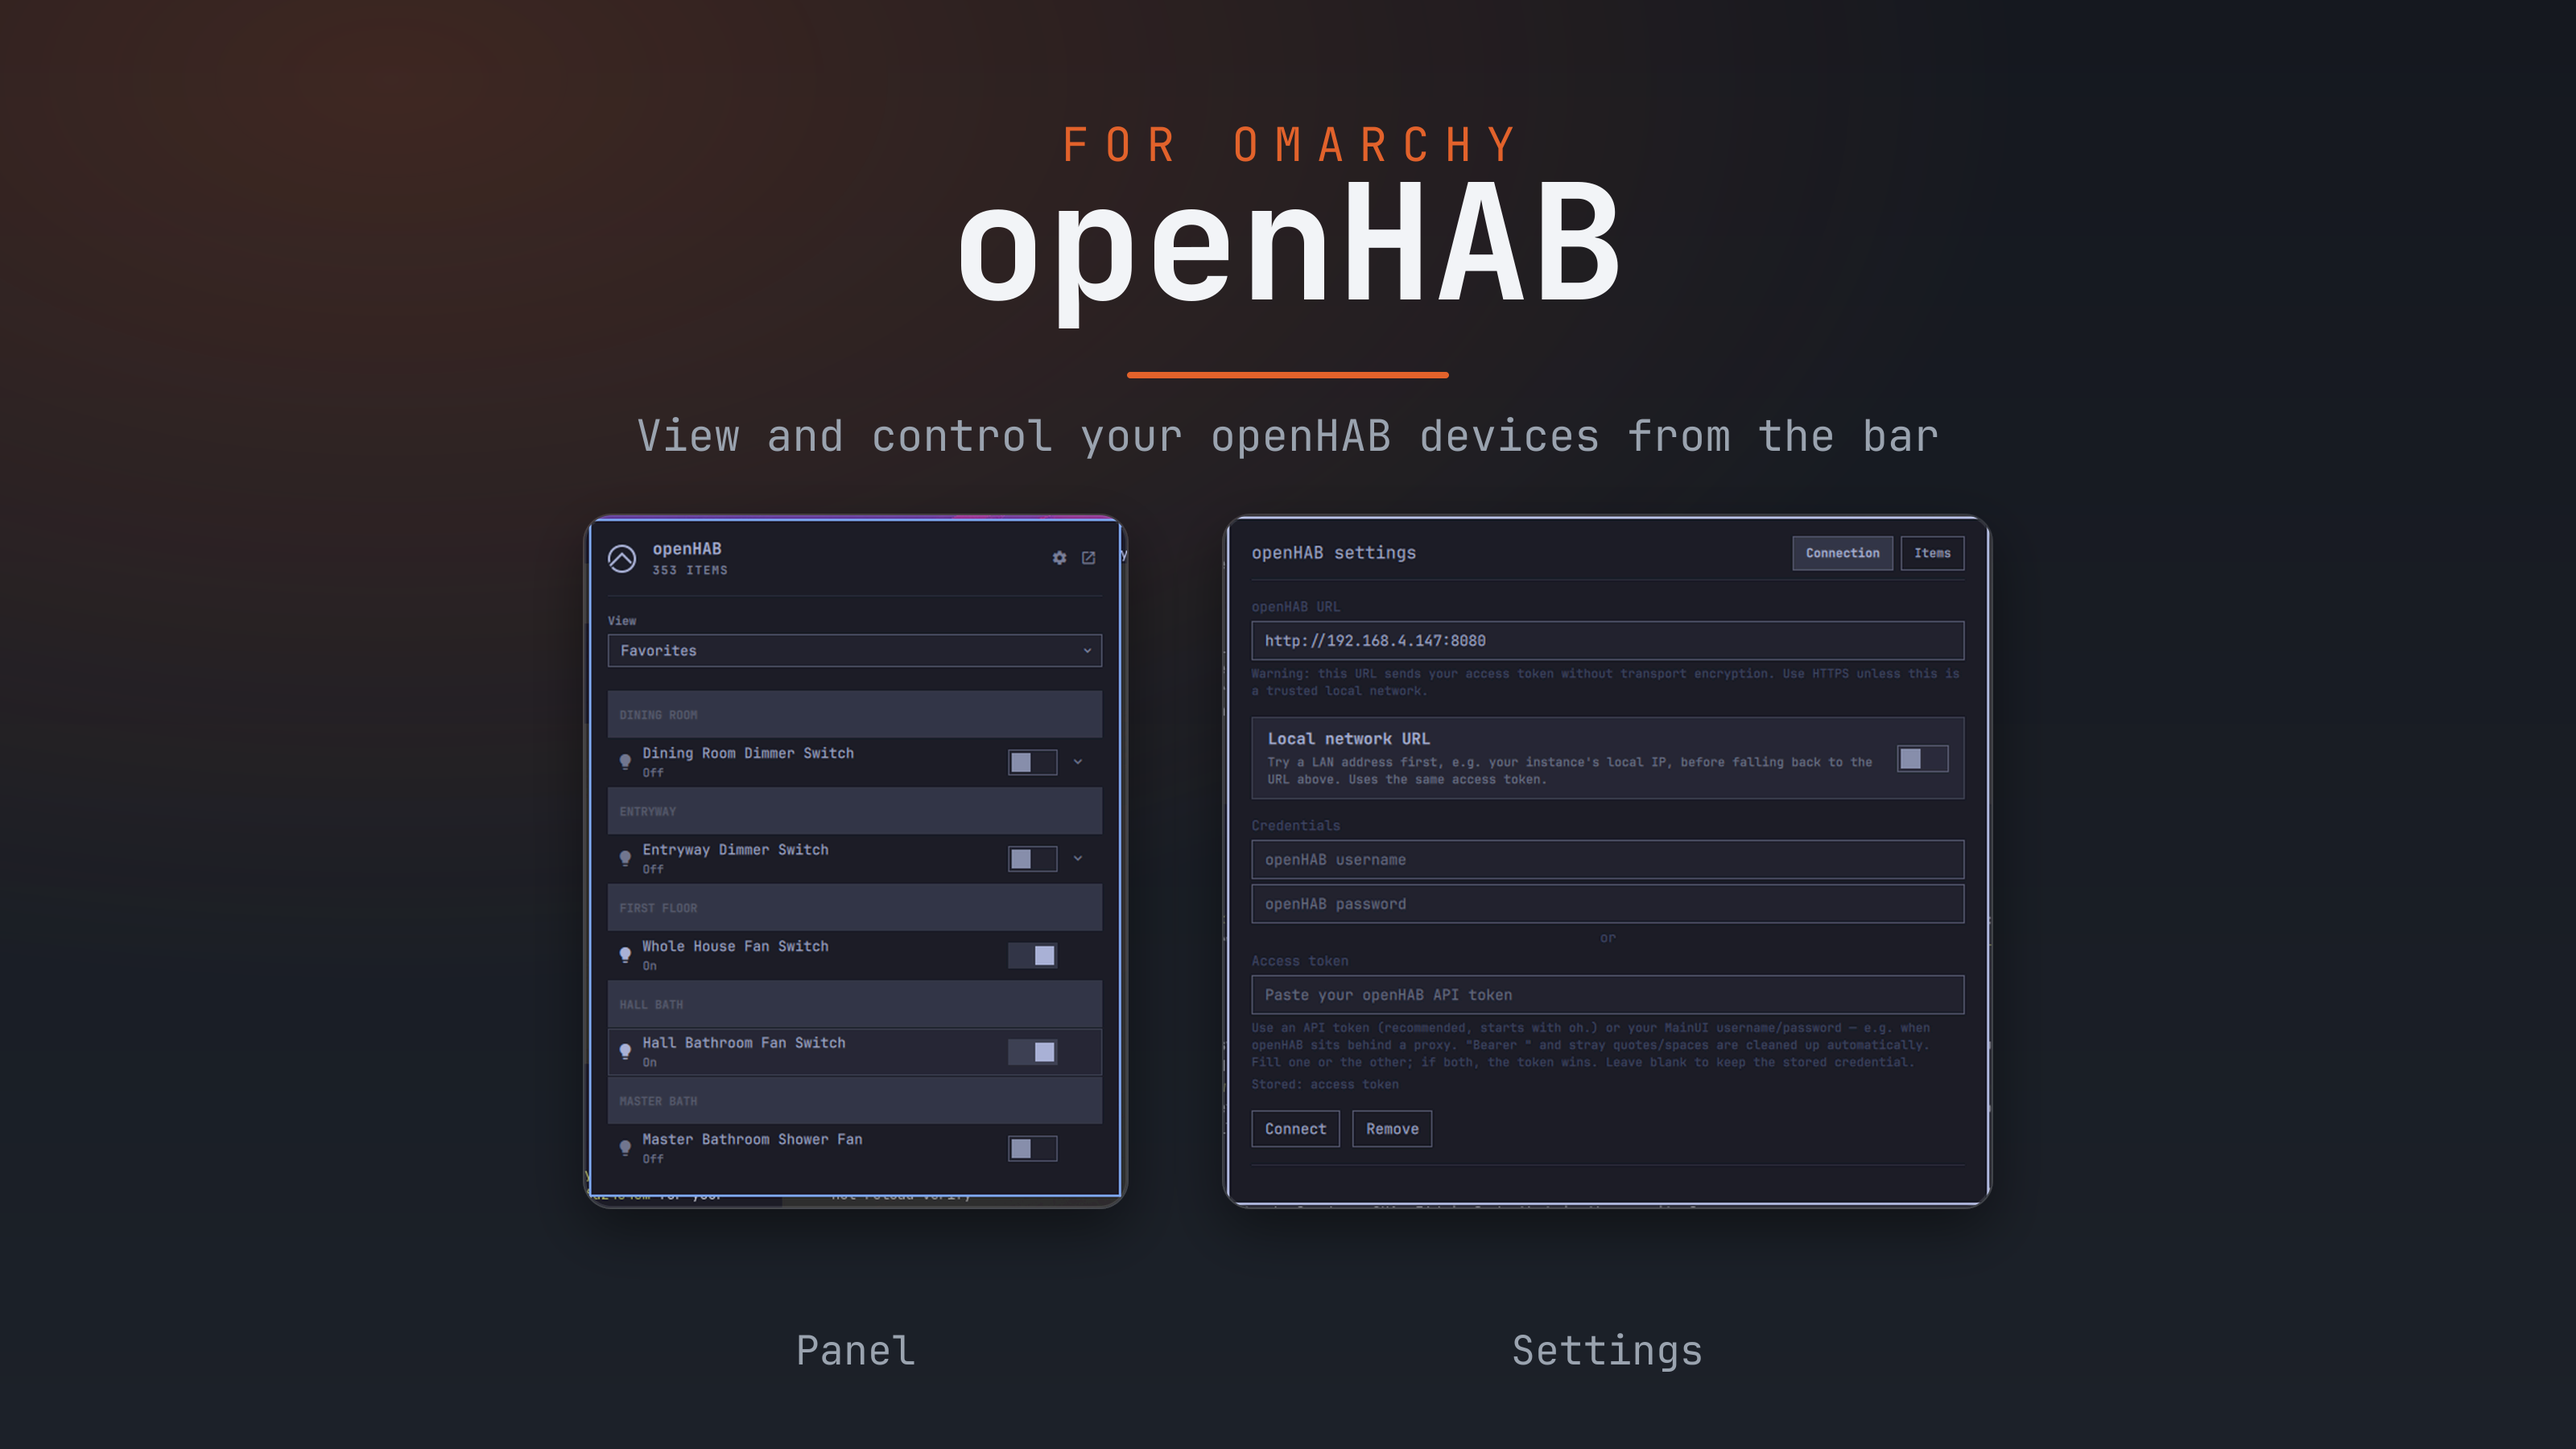
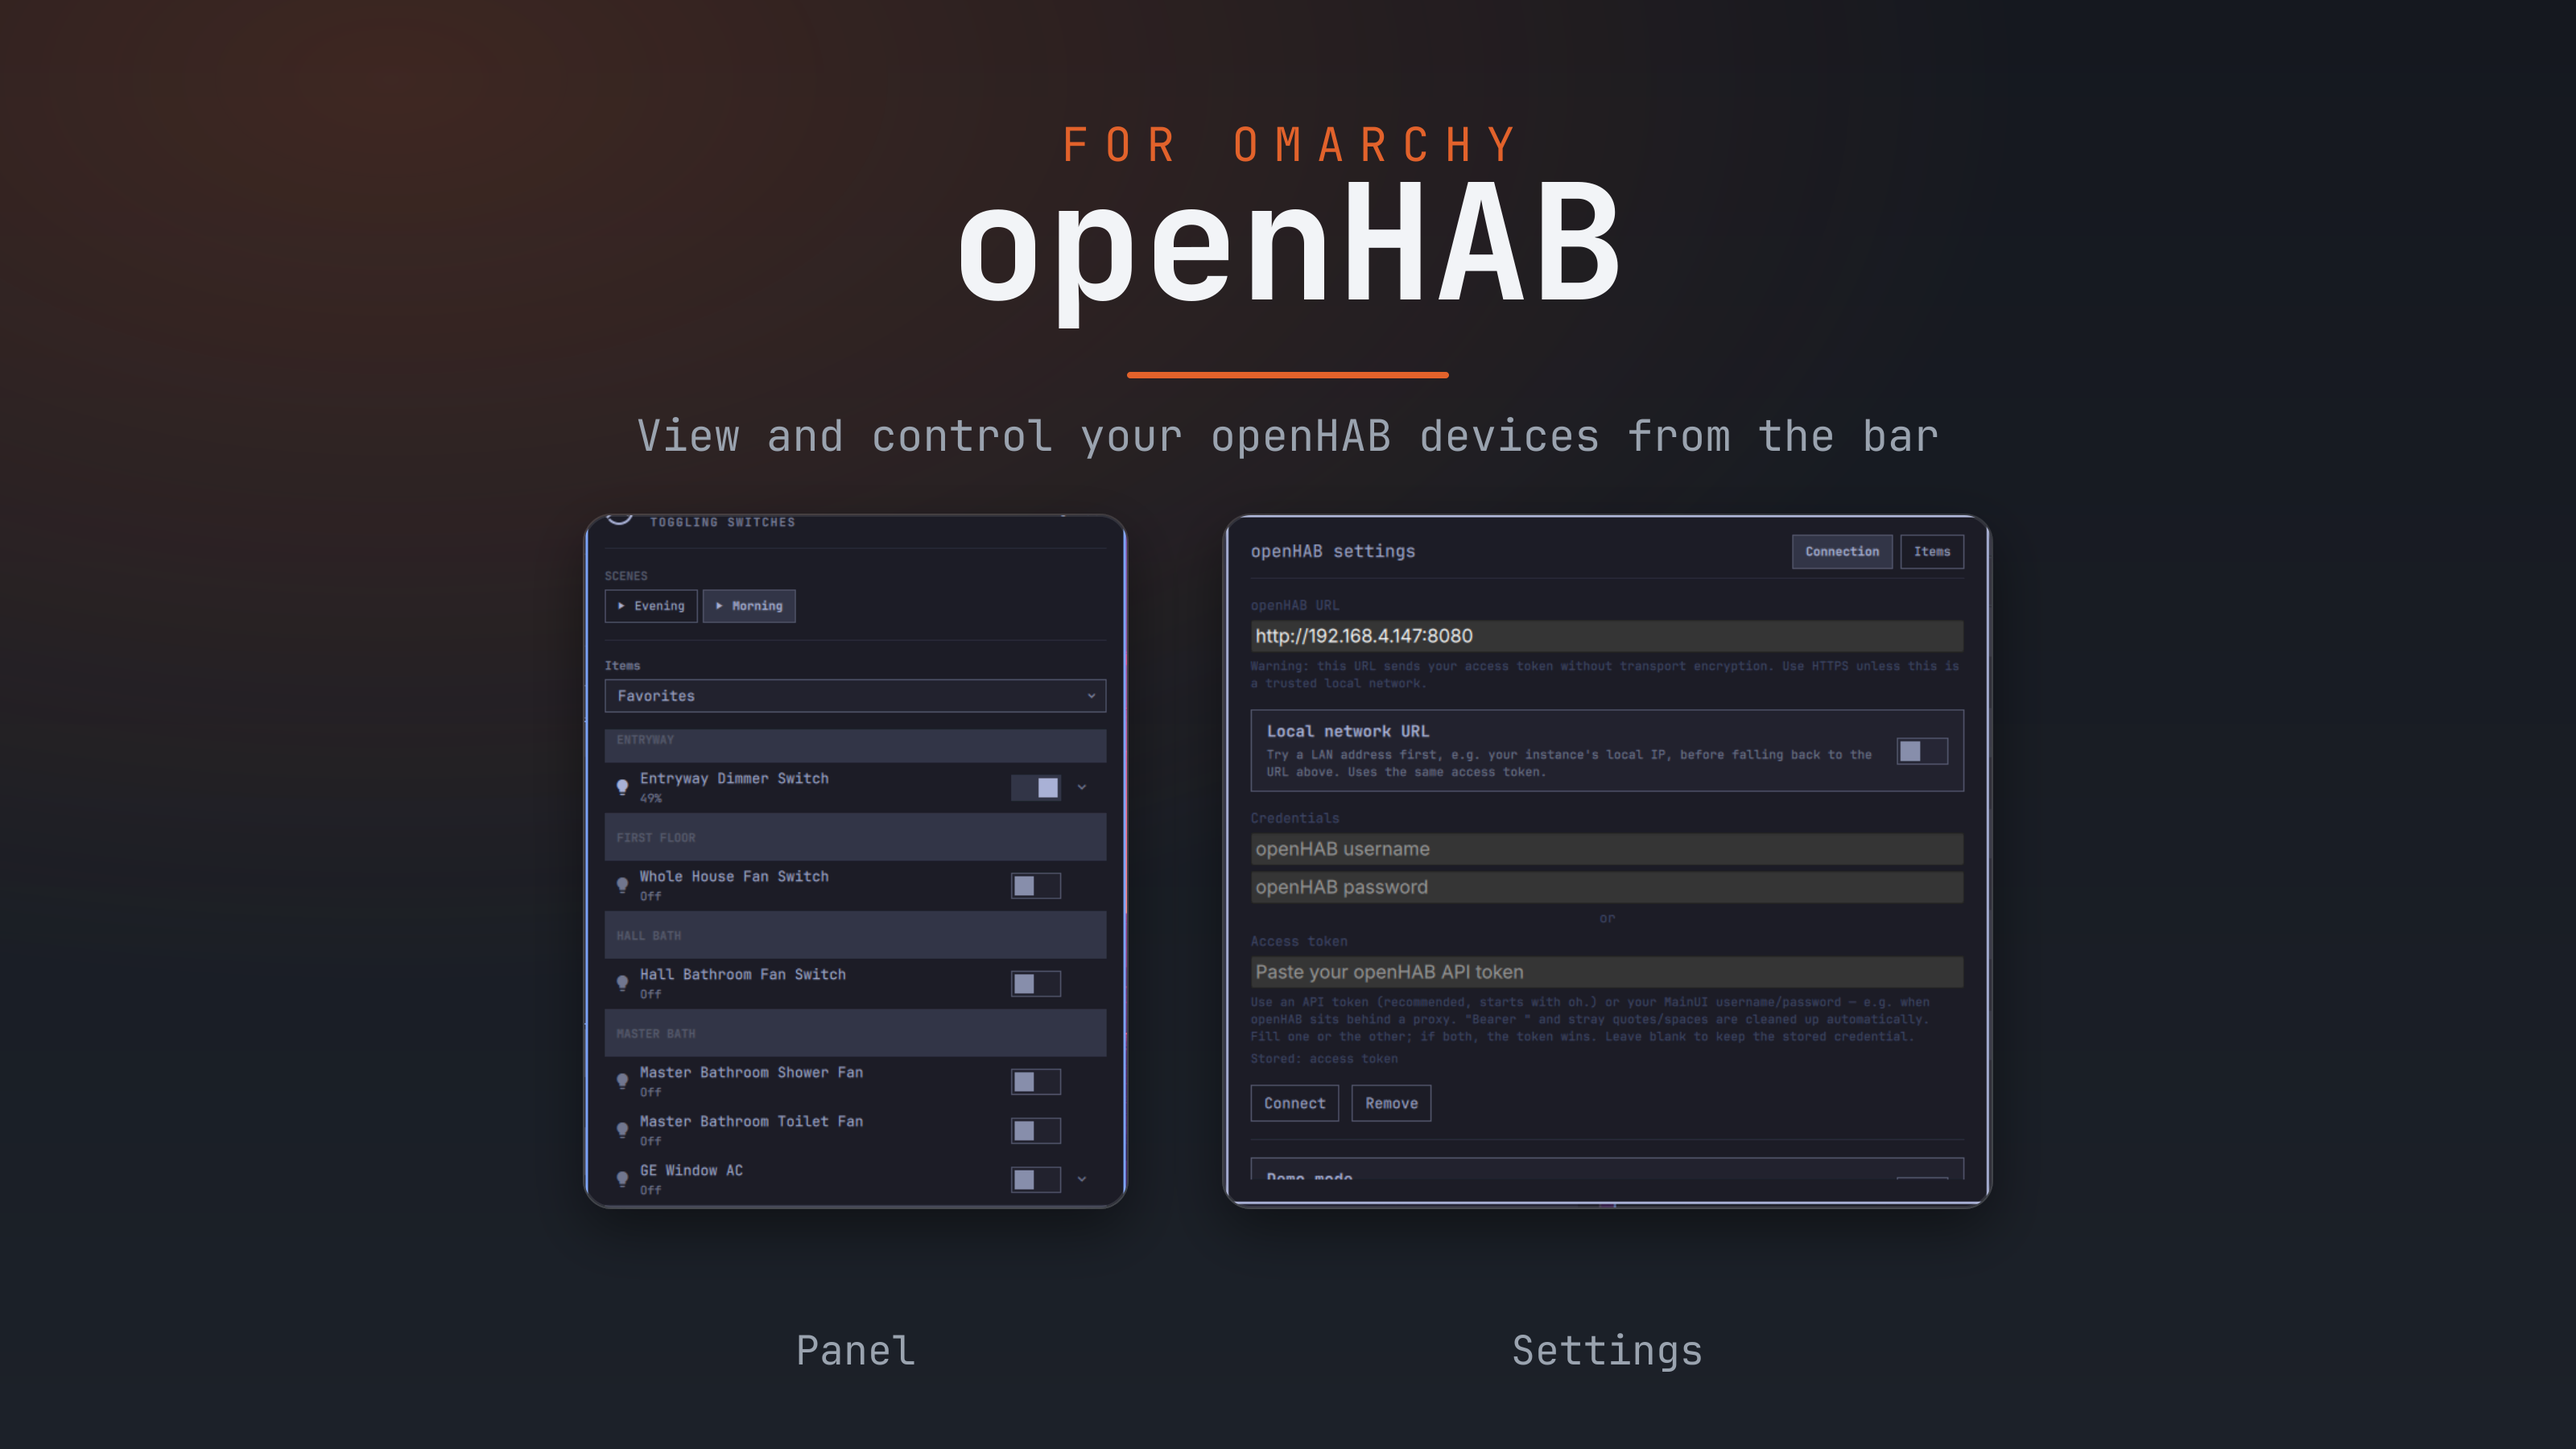
docs: refresh marketplace preview; document scenes, favorites, pop-out

diff --git a/README.md b/README.md
@@ -19,6 +19,16 @@ panel in the shell) that lists your home by room:
 - Dimmers and Color lights get an expandable brightness slider (0–100, sent on
   release).
 - Everything else is listed for visibility only.
+- **Scenes**: instances with `Scene` items get a SCENES band above the item
+  list (hidden when there are none) — cursor to a chip and press `enter` to
+  run it. Rules disabled in openHAB are dimmed with their tooltip; a running
+  scene's chip spins until openHAB reports it finished.
+- **Favorites view**: star any item from Settings → Items browser to pin it
+  for quick access. Favorites is the panel's default view, with every location
+  still one entry away in the view dropdown.
+- **Pop-out window**: a button in the panel header detaches the whole panel
+  into its own floating window — move and resize it anywhere, with the same
+  keyboard control and live view.
 
 ## Connecting
 
@@ -64,12 +74,39 @@ switches, dimmers, and a colour light — driven by the same bridge code path as
 a real instance, so what you see is exactly what a live connection behaves
 like.
 
+## Scenes
+
+When your instance has `Scene` items, a **SCENES** band appears between the
+panel header and the item list. `j` / `k` move the cursor; moving up past the
+first item reaches the band, where `←` / `→` pick a chip and `enter` runs the
+highlighted scene. A scene you ran with `enter` behaves identically to running
+it in the openHAB UI. With no `Scene` items the band is hidden entirely.
+
+## Favorites
+
+Press `s` and open the **Items** tab: every item gets a star button to pin it
+("Add to panel"). Pinned items are the panel's default view — the dropdown
+above the item list shows **Favorites** and one entry per location — so your
+most-used switches stay one keypress away. The tab's right column ("IN THE
+PANEL") lists what's pinned, with up/down buttons to reorder and a star to
+unpin.
+
+## Pop-out window
+
+The button at the top-right of the panel header pops the panel out into its
+own floating window, detached from the bar. Drag it to any screen and resize
+it freely — it keeps the full panel behaviour: keyboard navigation, every
+shortcut (`r` refresh, `e` expand, `s` settings), and `esc` closes it back
+into the bar popup.
+
 ## Keyboard
 
 `j` / `k` (or `↑` / `↓`) move between room rows and their expanded controls.
 `enter` toggles the selected switch. `e` expands the selected light's
 brightness slider, `←` / `→` adjust it (and `enter` commits). `s` opens
 settings, `r` refreshes, `esc` closes. `tab` moves to the next bar panel.
+With scenes active, `←` / `→` on the SCENES band select a chip and `enter`
+runs it (see [Scenes](#scenes)).
 
 ## Lights, and everything else
 

diff --git a/DEVELOPING.md b/DEVELOPING.md
@@ -47,8 +47,19 @@ Reference implementation this is built against: `https://github.com/konradk/hass
 - `Mark.js`: the openHAB brand mark's geometry (official SVG paths parsed into
   absolute commands and fitted into a square), replayed by `OpenHabIcon.qml`.
 - `OpenHabIcon.qml`: Canvas drawing of the openHAB mark in a single theme tint.
-- `Panel.qml`: bar widget, popup, keyboard navigation, and IPC surface.
-- `Settings.qml`: connection settings overlay.
+- `Panel.qml`: bar widget, popup, pop-out `FloatingWindow`, keyboard
+  navigation, and IPC surface.
+- `PanelBody.qml`: panel content shared by the popup and the pop-out window —
+  SCENES band, items chooser, cursor, and "not configured / no devices /
+  nothing pinned" states.
+- `SceneStrip.qml`: the SCENES band (one chip per `Scene` item, run on
+  activation, dimmed/spinning for disabled/running rules).
+- `Settings.qml`: connection settings overlay with Connection and Items
+  tabs (items browser + favorites list).
+- `DraftField.qml`, `CollapsingNote.qml`: shared settings field and notice
+  components.
+- `ItemRowDelegate.qml`, `SettingsItemRow.qml`: shared list rows for the
+  panel list and the settings Items tab.
 - `bin/oh-bridge`: openHAB REST/SSE protocol adapter and demo backend.
 - `tests/fake_openhab.py`: local fake openHAB used by bridge tests.
 
